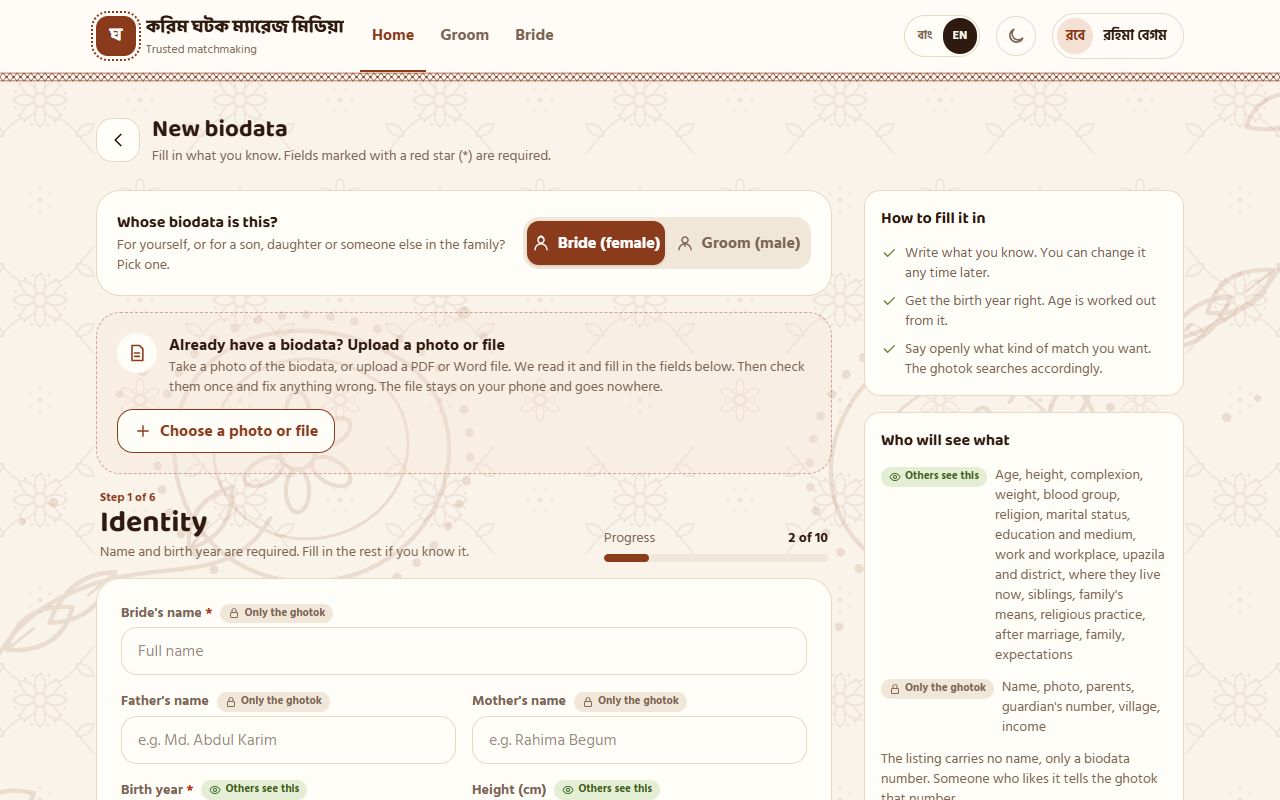
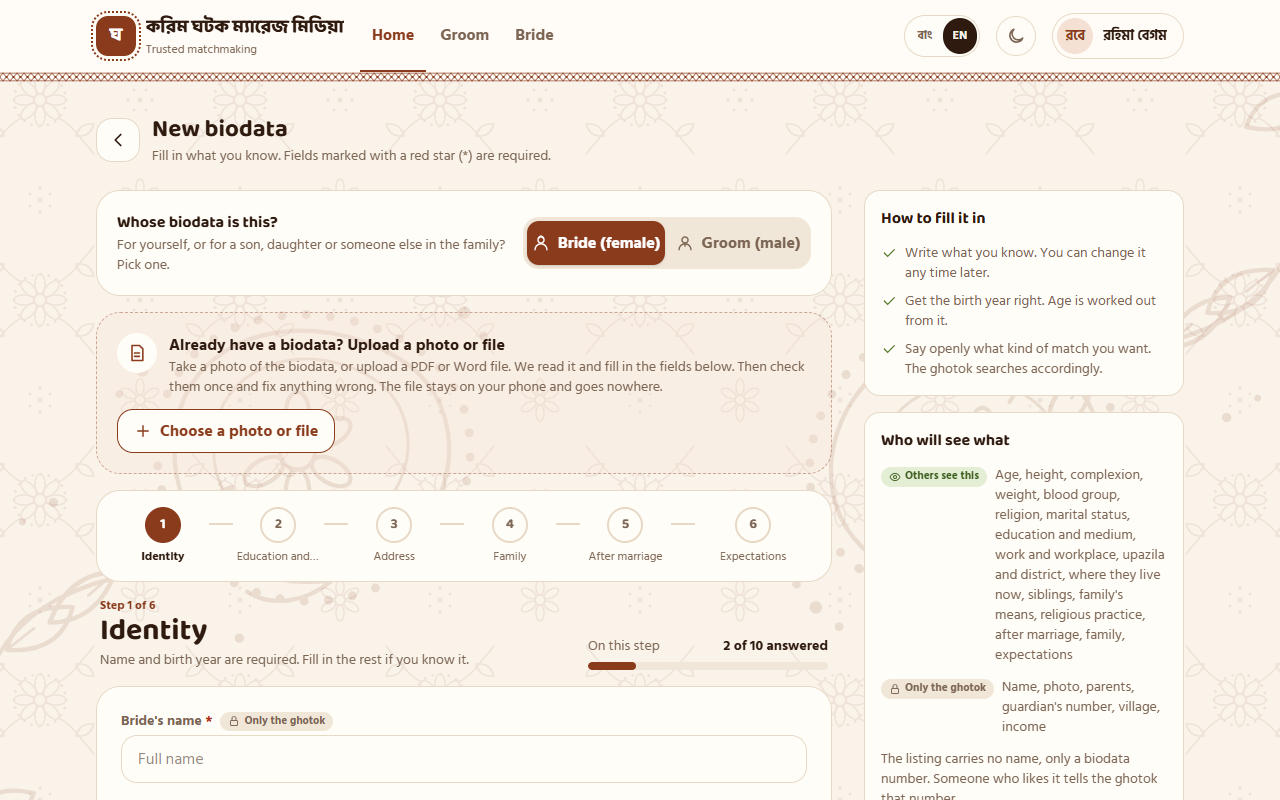
feat: a step line over the biodata form, and buttons that say where they go
Six numbered circles joined by a line sit above the form: the current
step filled, the steps already seen ticked, each one a button that goes
there (back at once, forward only past a valid step). The previous and
next buttons carry the names of the steps they lead to, the last step
says so, and a note under the buttons explains when a required field
stops the move. With a mouse, each step lands in its first box.
Screenshots refreshed.

Changed region(s): [[0.0625, 0.5938, 0.6562, 1.0], [0.375, 0.9688, 0.5312, 1.0], [0.4062, 0.7188, 0.4375, 0.7812]]

diff --git a/components/profile-form.tsx b/components/profile-form.tsx
@@ -7,6 +7,7 @@ import { Icon } from "@/components/icons";
 import { primaryButton, quietButton } from "@/components/ui";
 import type { Imported } from "@/lib/biodata-import/parse";
 import type { Profile, ProfileKind } from "@/lib/db/schema";
+import type { Key } from "@/lib/i18n";
 import { useT } from "@/lib/i18n/client";
 import { submitBiodataAction, updateBiodataAction } from "@/lib/actions/biodata";
 import { createProfileAction, updateProfileAction } from "@/lib/actions/profiles";
@@ -36,6 +37,8 @@ interface Props {
 }
 
 const STEPS = 6;
+/** the short names on the step line */
+const STEP_NAMES: Key[] = ["form.stepName1", "form.stepName2", "form.stepName3", "form.stepName4", "form.stepName5", "form.stepName6"];
 
 /**
  * The same form for a new person and for editing one; `profile` fills it in for editing. Six steps shown one at a
@@ -45,7 +48,7 @@ const STEPS = 6;
  * existing biodata can fill the fields first.
  */
 export function ProfileForm({ kind, profile, minYear, maxYear, viewer = "admin", importable = false, ai = false }: Props) {
-  const { t, options } = useT();
+  const { t, n, options } = useT();
   const edit = !!profile;
   const family = viewer === "customer";
   // what an uploaded file filled in; bumping `version` remounts the form so the new defaults show
@@ -61,9 +64,12 @@ export function ProfileForm({ kind, profile, minYear, maxYear, viewer = "admin",
     ? (edit ? t("form.submitFamilyEdit") : t("form.submitFamilyNew"))
     : (edit ? t("common.save") : t("form.addKind", { kind: t(`kind.${kind}`) }));
 
-  // the wizard: which step shows, and how many of its questions have an answer
+  // the wizard: which step shows, which have been seen, how many of this step's questions have an answer, and
+  // whether the last attempt to move on was stopped by an empty required field
   const [step, setStep] = useState(0);
+  const [seenSteps, setSeenSteps] = useState<number[]>([0]);
   const [done, setDone] = useState({ n: 0, total: 0 });
+  const [blocked, setBlocked] = useState(false);
   const steps = useRef<(HTMLDivElement | null)[]>([]);
   const top = useRef<HTMLDivElement>(null);
   const last = step === STEPS - 1;
@@ -82,16 +88,29 @@ export function ProfileForm({ kind, profile, minYear, maxYear, viewer = "admin",
   useEffect(recount, [recount, version]);
 
   const go = (to: number) => {
-    setStep(Math.max(0, Math.min(STEPS - 1, to)));
+    const i = Math.max(0, Math.min(STEPS - 1, to));
+    setStep(i);
+    setSeenSteps((s) => (s.includes(i) ? s : [...s, i]));
+    setBlocked(false);
     top.current?.scrollIntoView({ behavior: "smooth", block: "start" });
+    // with a keyboard and mouse, land in the step's first box; on a phone that would pop the keyboard up
+    if (window.matchMedia("(pointer: fine)").matches) {
+      setTimeout(() => steps.current[i]?.querySelector<HTMLElement>("input:not([type=hidden]):not([type=radio]), textarea")?.focus({ preventScroll: true }), 350);
+    }
   };
-  /** moves on only when every field on this step is valid (the browser shows the first problem) */
-  const next = () => {
+  /** true when every field on this step is valid; otherwise shows the browser's message on the first problem and our note */
+  const stepValid = () => {
     const root = steps.current[step];
     for (const el of root?.querySelectorAll<HTMLInputElement>("input, select, textarea") ?? []) {
-      if (!el.checkValidity()) { el.reportValidity(); return; }
+      if (!el.checkValidity()) { el.reportValidity(); setBlocked(true); return false; }
     }
-    go(step + 1);
+    return true;
+  };
+  const next = () => { if (stepValid()) go(step + 1); };
+  /** the step line: back to any step already seen at once; forward only past a valid current step */
+  const jump = (to: number) => {
+    if (to === step) return;
+    if (to < step || seenSteps.includes(to) || stepValid()) go(to);
   };
 
   const seen = (by: "all" | "ghotok") => by === "all"
@@ -130,14 +149,35 @@ export function ProfileForm({ kind, profile, minYear, maxYear, viewer = "admin",
         </p>
       ) : null}
 
+      {/* the step line: numbered circles joined by a line, a tick on the steps already seen; tap one to go there */}
+      <ol aria-label={t("form.stepsAria")} className="flex items-start rounded-3xl border border-line bg-surface px-3 py-3 sm:px-5">
+        {STEP_NAMES.map((name, i) => {
+          const current = i === step;
+          const seenIt = seenSteps.includes(i) && !current;
+          return (
+            <li key={name} className="flex min-w-0 flex-1 items-start">
+              <button type="button" onClick={() => jump(i)} aria-current={current ? "step" : undefined}
+                className="flex min-w-0 flex-1 flex-col items-center gap-1.5 rounded-2xl px-1 py-1 text-center hover:bg-sunk">
+                <span className={`grid size-9 shrink-0 place-items-center rounded-full border-2 font-display text-sm font-bold ${current ? "border-primary bg-primary text-on-primary" : seenIt ? "border-primary bg-primary-soft text-primary" : "border-line bg-surface text-muted"}`}>
+                  {seenIt ? <Icon name="check" size={16} strokeWidth={2.6} /> : n(i + 1)}
+                </span>
+                <span className={`hidden w-full truncate text-xs sm:block ${current ? "font-bold text-ink" : "text-muted"}`}>{t(name)}</span>
+                <span className="sr-only">{current ? t("form.stepCurrent") : seenIt ? t("form.stepDone") : ""}</span>
+              </button>
+              {i < STEPS - 1 ? <span aria-hidden className={`mt-5 h-0.5 w-3 shrink-0 sm:w-6 ${seenSteps.includes(i) && (seenSteps.includes(i + 1) || i + 1 === step) ? "bg-primary" : "bg-line"}`} /> : null}
+            </li>
+          );
+        })}
+      </ol>
+
       <div className="flex flex-col gap-3 px-1 sm:flex-row sm:items-end sm:justify-between sm:gap-6">
         <div className="min-w-0">
           <p className="text-xs font-bold text-primary">{t("form.step", { n: step + 1, total: STEPS })}</p>
           <h2 className="font-display text-2xl font-bold lg:text-3xl">{title}</h2>
           {hint ? <p className="text-sm text-muted">{hint}</p> : null}
         </div>
-        <div className="flex w-full flex-col gap-1.5 sm:w-56 sm:shrink-0">
-          <div className="flex items-center justify-between text-sm">
+        <div className="flex w-full flex-col gap-1.5 sm:w-60 sm:shrink-0">
+          <div className="flex items-center justify-between gap-3 text-sm">
             <span className="text-muted">{t("form.progress")}</span>
             <span className="font-bold tabular-nums">{t("form.progressOf", { n: done.n, total: done.total })}</span>
           </div>
@@ -153,13 +193,22 @@ export function ProfileForm({ kind, profile, minYear, maxYear, viewer = "admin",
         submitLabel={submit}
         pendingLabel={family ? t("form.submitting") : undefined}
         footer={(button) => (
-          <div className="flex flex-col gap-3 border-t border-line pt-4 sm:flex-row sm:items-center sm:justify-between">
-            <p className="text-sm text-muted">{t("form.laterNote")}</p>
-            <div className="flex flex-col-reverse gap-2 sm:flex-row sm:shrink-0">
-              {step > 0 ? <button type="button" onClick={() => go(step - 1)} className={quietButton}><Icon name="back" size={18} />{t("form.prev")}</button> : null}
-              {last ? <div className="sm:min-w-56">{button}</div> : (
-                <button type="button" onClick={next} className={primaryButton}>{t("form.next")}<Icon name="chevronRight" size={18} /></button>
-              )}
+          <div className="flex flex-col gap-3 border-t border-line pt-4">
+            {blocked ? (
+              <p role="alert" className="flex items-start gap-2 rounded-2xl bg-neg-soft px-4 py-3 text-sm font-semibold text-neg">
+                <Icon name="shield" size={16} className="mt-0.5 shrink-0" />{t("form.fillRequired")}
+              </p>
+            ) : null}
+            <div className="flex flex-col gap-3 sm:flex-row sm:items-center sm:justify-between">
+              <p className="text-sm text-muted">{last ? t("form.lastStepNote") : t("form.laterNote")}</p>
+              <div className="flex flex-col-reverse gap-2 sm:flex-row sm:shrink-0">
+                {step > 0 ? (
+                  <button type="button" onClick={() => go(step - 1)} className={quietButton}><Icon name="back" size={18} />{t(STEP_NAMES[step - 1])}</button>
+                ) : null}
+                {last ? <div className="sm:min-w-56">{button}</div> : (
+                  <button type="button" onClick={next} className={primaryButton}>{t("form.nextNamed", { name: t(STEP_NAMES[step + 1]) })}<Icon name="chevronRight" size={18} /></button>
+                )}
+              </div>
             </div>
           </div>
         )}

diff --git a/lib/i18n/dict.ts b/lib/i18n/dict.ts
@@ -357,10 +357,22 @@ export const bn = {
   "form.s5": "প্রত্যাশা ও ছবি",
   "form.s5Hint": "কেমন পাত্র বা পাত্রী চান, বেছে দিন আর খোলাখুলি লিখুন। ঘটক সেই অনুযায়ী খোঁজেন, মিল পাওয়ার পরামর্শও এ থেকেই আসে।",
   "form.step": "ধাপ {n} / {total}",
-  "form.progress": "অগ্রগতি",
-  "form.progressOf": "{total}টির মধ্যে {n}টি",
+  "form.stepsAria": "ফর্মের ধাপ",
+  "form.stepName1": "পরিচয়",
+  "form.stepName2": "শিক্ষা ও পেশা",
+  "form.stepName3": "ঠিকানা",
+  "form.stepName4": "পরিবার",
+  "form.stepName5": "বিয়ের পর",
+  "form.stepName6": "প্রত্যাশা",
+  "form.stepDone": "হয়ে গেছে",
+  "form.stepCurrent": "এখন",
+  "form.progress": "এই ধাপে",
+  "form.progressOf": "{total}টির মধ্যে {n}টি উত্তর",
   "form.prev": "আগের ধাপ",
   "form.next": "পরের ধাপ",
+  "form.nextNamed": "পরের ধাপ: {name}",
+  "form.fillRequired": "এই ধাপে লাল তারা (*) দেওয়া ঘর ফাঁকা আছে। সেগুলো ভরে এগোন।",
+  "form.lastStepNote": "এটাই শেষ ধাপ। সব দেখে নিয়ে জমা দিন।",
   "form.laterNote": "উত্তরগুলো পরে যেকোনো সময় বদলানো যাবে।",
   "form.familyStatusHint": "পরিবারের আর্থিক অবস্থা",
   "form.sAfter": "বিয়ের পর",
@@ -1109,10 +1121,22 @@ export const en: Record<Key, string> = {
   "form.s5": "Expectations and photo",
   "form.s5Hint": "Pick what you hope for and say the rest openly. The ghotok searches by it, and the match suggestions come from it too.",
   "form.step": "Step {n} of {total}",
-  "form.progress": "Progress",
-  "form.progressOf": "{n} of {total}",
+  "form.stepsAria": "Form steps",
+  "form.stepName1": "Identity",
+  "form.stepName2": "Education and work",
+  "form.stepName3": "Address",
+  "form.stepName4": "Family",
+  "form.stepName5": "After marriage",
+  "form.stepName6": "Expectations",
+  "form.stepDone": "done",
+  "form.stepCurrent": "current",
+  "form.progress": "On this step",
+  "form.progressOf": "{n} of {total} answered",
   "form.prev": "Previous step",
   "form.next": "Next step",
+  "form.nextNamed": "Next: {name}",
+  "form.fillRequired": "A field marked with a red star (*) on this step is still empty. Fill it in to go on.",
+  "form.lastStepNote": "This is the last step. Look it over, then hand it in.",
   "form.laterNote": "You can change any answer later.",
   "form.familyStatusHint": "The family's finances",
   "form.sAfter": "After marriage",
